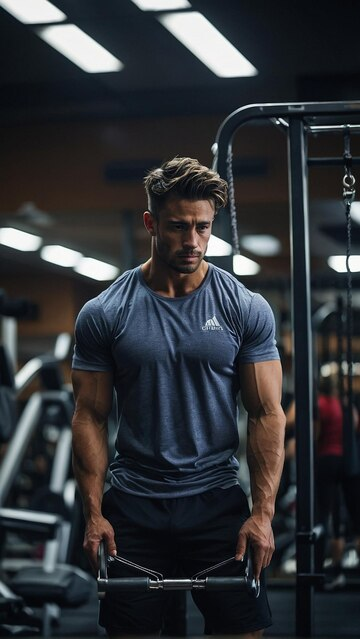
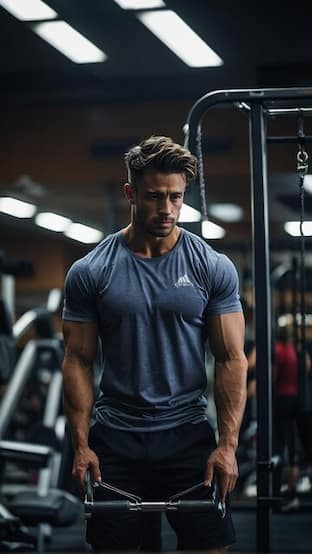
Replace images with compressed versions

diff --git a/index.html b/index.html
@@ -45,7 +45,7 @@
             <button class="start">GET START</button>
         </div>
         <div class="imagesec">
-            <img src="./images/image.png" class="imagemain">
+            <img src="./images/pic.jpg" class="imagemain">
         </div>
     </section>
     <div class="coach">
@@ -64,7 +64,7 @@
                 <button onclick="moreAbout()" class="infobtn">know more About Instructor</button>
             </div>
             <div class="instructor">
-                <img class="girltrainer" src="./images/gymgirl.png">
+                <img class="girltrainer" src="./images/gymgirl.jpg">
                 <h4>ELIZABETH</h4>
             </div>
         </div>
